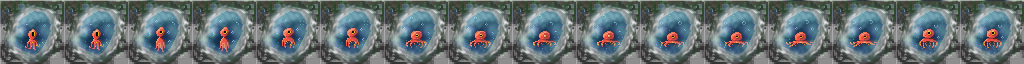
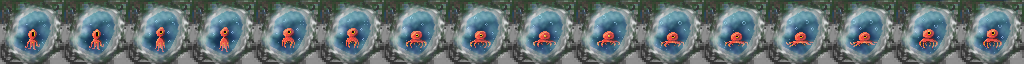
implement water animation and generation

Changed region(s): [[0.0, 0.0, 1.0, 0.0312]]

diff --git a/src/main/java/info3/game/cavegenerator/DecorationGenerator.java b/src/main/java/info3/game/cavegenerator/DecorationGenerator.java
@@ -27,7 +27,6 @@ public class DecorationGenerator {
 		extendDeco = extensionDecoration(extendDeco.toArray(), 4, cristaux_droit, 15);
 		extendDeco = extensionDecoration(extendDeco.toArray(), 8, cristaux_gauche, 15);
 		extendDeco = extensionDecoration(extendDeco.toArray(), 2, water_sol, 10);
-
 		extendDeco = extensionDecoration(extendDeco.toArray(), 2, cristaux_sol, 20);
 		extendDeco = extensionDecoration(extendDeco.toArray(), 22, cristaux_sol, 20);
 		extendDeco = extensionDecoration(extendDeco.toArray(), 3, cristaux_sol, 20);

diff --git a/src/main/java/info3/game/entities/Block.java b/src/main/java/info3/game/entities/Block.java
@@ -29,8 +29,8 @@ public class Block extends Consumable {
 					new Image("classic_block/" + BlockIDs.IDs.get(id) + ".png"));
 			this.setName("Block");
 		} else {
-			this.avatar = this.controller.createAvatar(this.position.add(offset), new Vec2(0),
-					new AnimatedImage("classic_block/water_sol.png", 16, 100000, true));
+			AnimatedImage sprite = new AnimatedImage("classic_block/water_sol.png", 16, 5500, true);
+			this.avatar = this.controller.createAvatar(this.position, new Vec2(1), sprite);
 			this.setName("Block");
 		}
 

diff --git a/src/main/java/info3/game/menu/Menu.java b/src/main/java/info3/game/menu/Menu.java
@@ -31,9 +31,12 @@ public class Menu extends State implements Statemethods {
 	private void loadButtons() {
 		buttons[0] = new MenuButton(GameJerem.GAME_WIDTH / 2, (int) (150 * GameJerem.SCALE), 0, Gamestate.PLAYING,
 				() -> {
-					if (Options.ip.equals(""))
+					if (Options.ip.equals("")) {
 						Client.startGame();
-					else {
+						this.game.gameThread.interrupt();
+						this.game.gamewindow.dispose();
+
+					} else {
 
 					}
 				});

diff --git a/src/main/java/info3/game/menu/GameJerem.java b/src/main/java/info3/game/menu/GameJerem.java
@@ -7,7 +7,7 @@ import java.awt.GraphicsEnvironment;
 public class GameJerem implements Runnable {
 
 	private GamePanel gamePanel;
-	private Thread gameThread;
+	public Thread gameThread;
 	private final int FPS_SET = 120;
 	private final int UPS_SET = 200;
 
